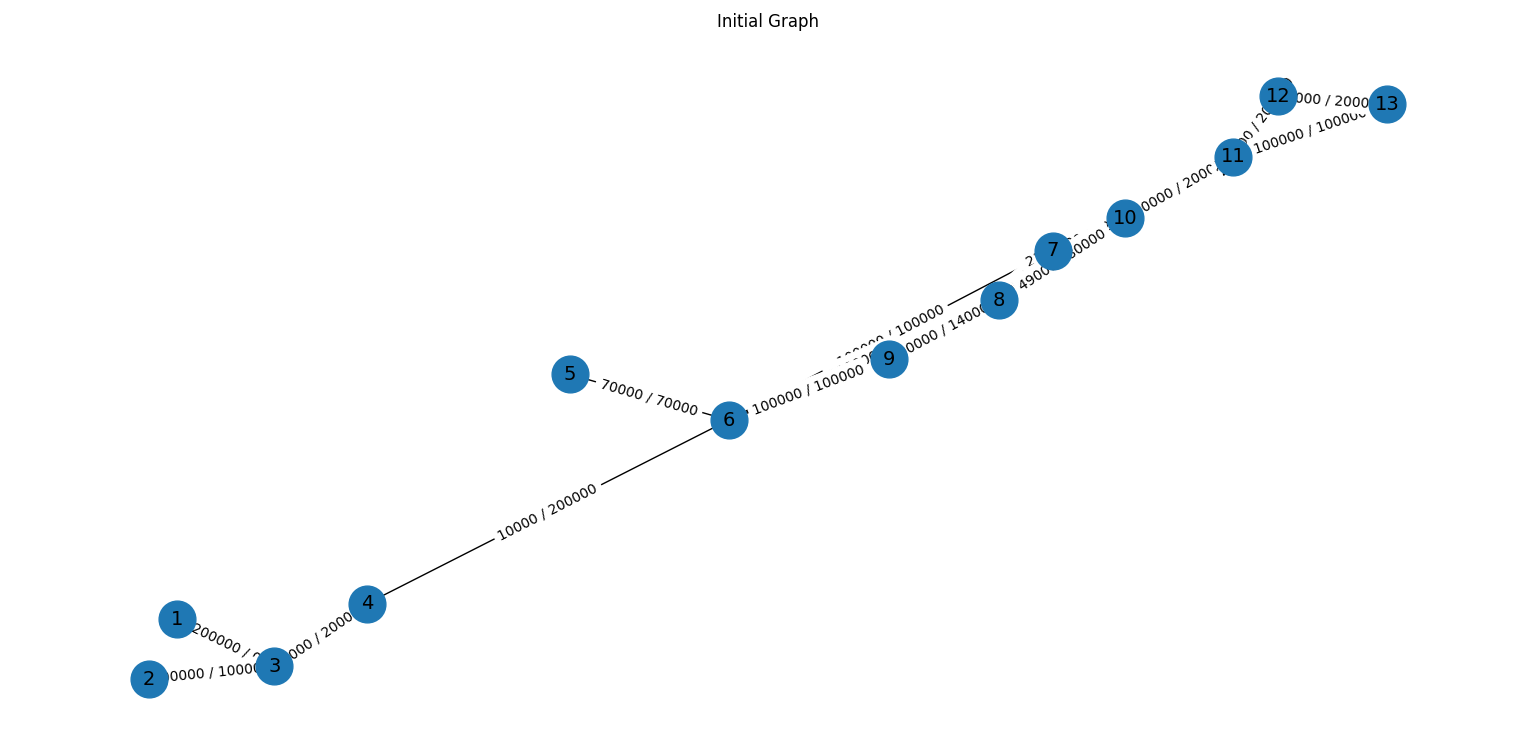
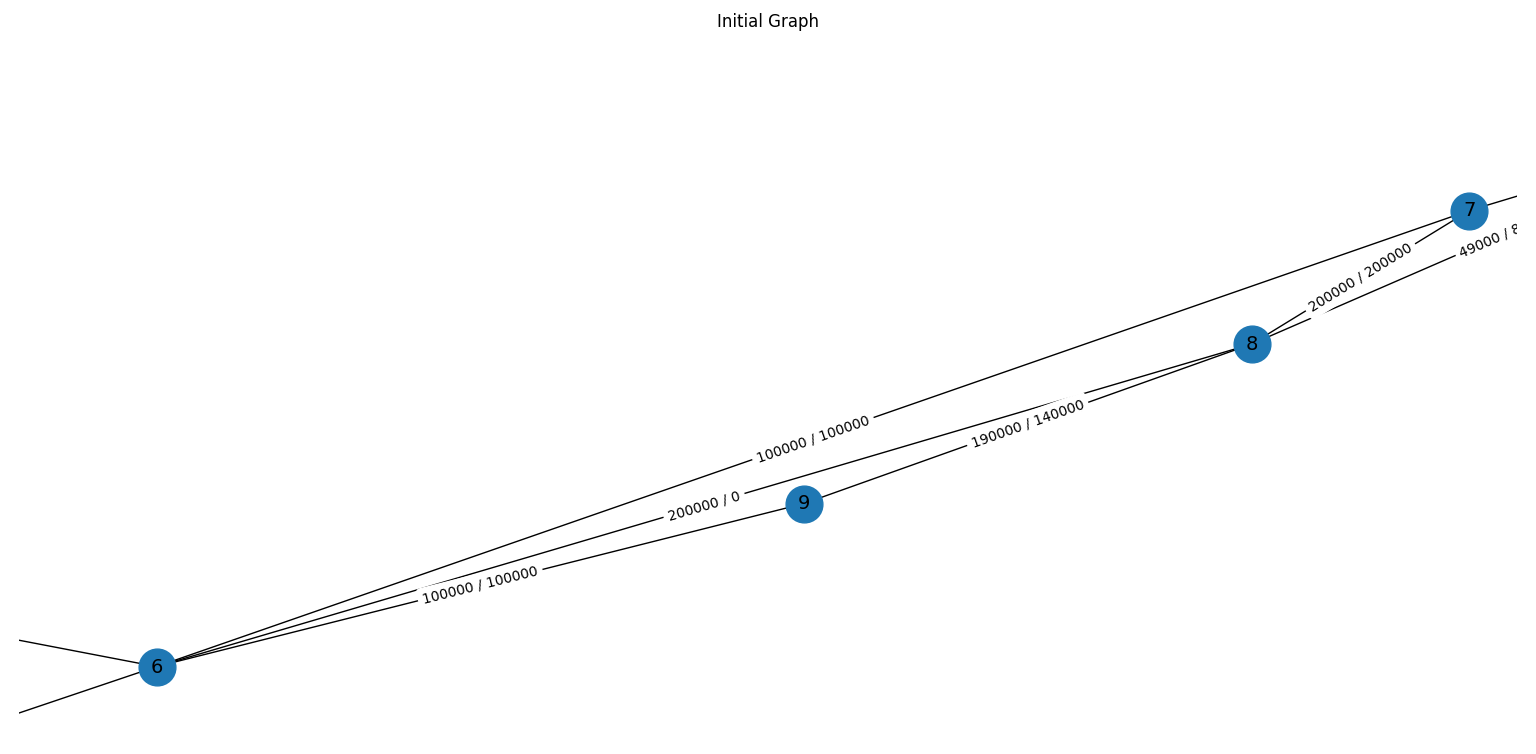
some changes

diff --git a/repo/rebalancer.py b/repo/rebalancer.py
@@ -1,17 +1,10 @@
 import networkx as nx
+from pulp import LpProblem, LpVariable, LpMaximize, LpStatus
 
 def find_cycles(G):
-    # Assuming G is your directed graph
     cycles = list(nx.simple_cycles(G))
-
-    # Filter cycles with length >= 3 (optional)
     valid_cycles = [cycle for cycle in cycles if len(cycle) >= 3]
-
     return valid_cycles
-# print("Found cycles:")
-# for c in valid_cycles:
-#     print(c)
-
 
 def find_cycles_with_depleted_edge(G):
     all_cycles = list(nx.simple_cycles(G))
@@ -19,67 +12,80 @@ def find_cycles_with_depleted_edge(G):
 
     for cycle in all_cycles:
         if len(cycle) < 3:
-            continue  # skip short cycles
-
-        # Build edge list for this cycle
+            continue
         edges = [(cycle[i], cycle[(i + 1) % len(cycle)]) for i in range(len(cycle))]
-
-        # Check if at least one edge has balance 0
         has_depleted_edge = any(G[u][v]['weight'] == 0 for u, v in edges)
         if has_depleted_edge:
             filtered_cycles.append(cycle)
 
     return filtered_cycles
 
-
-from pulp import LpProblem, LpVariable, LpMaximize, LpStatus, lpSum
-
-def rebalance_cycle(cycle, G):
-    # Build directed edges from cycle
+def reweight_cycle(cycle, G):
     edges = [(cycle[i], cycle[(i + 1) % len(cycle)]) for i in range(len(cycle))]
-
-    # Create LP problem
-    prob = LpProblem("CycleRebalancing", LpMaximize)
-    # prob = LpProblem("MidpointRebalancing", LpMaximize)
-
-    # Single flow variable
+    prob = LpProblem("MidpointRebalancing", LpMaximize)
     x = LpVariable("x", lowBound=0)
+    max_x_possible = []
 
-    # Constraints: For each edge, balance + delta*x in [0, capacity]
     for u, v in edges:
-        # delta = +1 in direction u->v, -1 in direction v->u
-        delta = 1
-        # b = balance[u][v]
-        # c = capacity[u][v]
-        b = G[u][v]['weight']
-        c = G[u][v]['capacity']
+        b_fwd = G[u][v]['weight']
+        c_fwd = G[u][v]['capacity']
+        b_rev = G[v][u]['weight']
+        c_rev = G[v][u]['capacity']
+        midpoint = c_fwd / 2
 
-        prob += b + delta * x <= c
-        prob += b + delta * x >= 0
+        if b_fwd < midpoint:
+            max_push = min(midpoint - b_fwd, b_rev)
+            prob += b_fwd + x <= midpoint
+            prob += b_rev - x >= 0
+            max_x_possible.append(max_push)
 
-    # Objective: maximize x
+        elif b_fwd > midpoint:
+            max_push = min(b_fwd - midpoint, c_rev - b_rev)
+            prob += b_fwd - x >= midpoint
+            prob += b_rev + x <= c_rev
+            max_x_possible.append(max_push)
+
+        else:
+            continue
+
     prob += x
+    if max_x_possible:
+        prob += x <= min(max_x_possible)
 
-    # Solve LP
     status = prob.solve()
     if LpStatus[status] == "Optimal" and x.varValue > 0:
-        # Apply update to balances
         flow = x.varValue
         for u, v in edges:
-            G[u][v]['weight'] += flow
-            G[v][u]['weight'] -= flow  # Subtract from reverse direction
+            b_fwd = G[u][v]['weight']
+            c_fwd = G[u][v]['capacity']
+            midpoint = c_fwd / 2
+
+            if b_fwd < midpoint:
+                G[u][v]['weight'] += flow
+                G[v][u]['weight'] -= flow
+            else:
+                G[u][v]['weight'] -= flow
+                G[v][u]['weight'] += flow
         return True, flow
+
     return False, 0
 
 def total_flow(cycles, G):
-    total_flow = 0
+    total = 0
     for cycle in cycles:
-        success, flow = rebalance_cycle(cycle, G)
+        success, flow = reweight_cycle(cycle, G)
         if success:
-            print(f"Rebalanced cycle {cycle} with flow {flow}")
-            total_flow += flow
-    print(f"Total rebalanced flow: {total_flow}")
-    return total_flow
+            aliases = [G.nodes[c].get("alias", c) for c in cycle]
+            print(f"Reweightd cycle {aliases} with flow {flow}")
+            total += flow
+    print(f"Total reweightd flow: {total}")
+    return total
+
+
+
+
+
+
 
 
 
@@ -88,13 +94,131 @@ def total_flow(cycles, G):
 
 
 # import networkx as nx
+
+# def find_cycles(G):
+#     # Assuming G is your directed graph
+#     cycles = list(nx.simple_cycles(G))
+
+#     # Filter cycles with length >= 3 (optional)
+#     valid_cycles = [cycle for cycle in cycles if len(cycle) >= 3]
+
+#     return valid_cycles
+# # print("Found cycles:")
+# # for c in valid_cycles:
+# #     print(c)
+
+
+# def find_cycles_with_depleted_edge(G):
+#     all_cycles = list(nx.simple_cycles(G))
+#     filtered_cycles = []
+
+#     for cycle in all_cycles:
+#         if len(cycle) < 3:
+#             continue  # skip short cycles
+
+#         # Build edge list for this cycle
+#         edges = [(cycle[i], cycle[(i + 1) % len(cycle)]) for i in range(len(cycle))]
+
+#         # Check if at least one edge has weight 0
+#         has_depleted_edge = any(G[u][v]['weight'] == 0 for u, v in edges)
+#         if has_depleted_edge:
+#             filtered_cycles.append(cycle)
+
+#     return filtered_cycles
+
+
+# from pulp import LpProblem, LpVariable, LpMaximize, LpStatus, lpSum
+
+# def reweight_cycle(cycle, G):
+#     # Build directed edges from cycle
+#     edges = [(cycle[i], cycle[(i + 1) % len(cycle)]) for i in range(len(cycle))]
+
+#     # Create LP problem
+#     # prob = LpProblem("CycleRebalancing", LpMaximize)
+#     prob = LpProblem("MidpointRebalancing", LpMaximize)
+
+#     # Single flow variable
+#     x = LpVariable("x", lowBound=0)
+
+#     max_x_possible = []
+
+#     # Constraints: For each edge, weight + delta*x in [0, capacity]
+#     for u, v in edges:
+#         # delta = +1 in direction u->v, -1 in direction v->u
+#         delta = 1
+#         # b = weight[u][v]
+#         # c = capacity[u][v]
+#         b = G[u][v]['weight']
+#         c = G[u][v]['capacity']
+#         midpoint = c / 2
+
+#         if b < midpoint:
+#             # Flow should increase weight
+#             max_push = midpoint - b
+#             prob += b + delta * x <= midpoint
+#             prob += b + delta * x >= 0
+#             max_x_possible.append(max_push)
+#         elif b > midpoint:
+#             # Flow should decrease weight
+#             max_push = b - midpoint
+#             prob += b - delta * x >= midpoint
+#             prob += b - delta * x <= c
+#             max_x_possible.append(max_push)
+#         else:
+#             continue
+
+#     # Objective: maximize x
+#     prob += x
+
+#     # Upper bound for x is minimum across all edges (to avoid overshooting midpoint)
+#     if max_x_possible:
+#         prob += x <= min(max_x_possible)
+
+
+#     # Solve LP
+#     status = prob.solve()
+#     if LpStatus[status] == "Optimal" and x.varValue > 0:
+#         flow = x.varValue
+#         for u, v in edges:
+#             b = G[u][v]['weight']
+#             c = G[u][v]['capacity']
+#             midpoint = int(c / 2)
+
+#             if b < midpoint:
+#                 G[u][v]['weight'] += flow
+#                 G[v][u]['weight'] -= flow
+#             else:
+#                 G[u][v]['weight'] -= flow
+#                 G[v][u]['weight'] += flow
+#         return True, flow
+#     return False, 0
+
+# def total_flow(cycles, G):
+#     total_flow = 0
+#     for cycle in cycles:
+#         success, flow = reweight_cycle(cycle, G)
+#         if success:
+#             a = []
+#             for c in cycle:
+#                 # print(c)
+#                 # print(G.nodes[c].get("alias", c))
+#                 a.append(G.nodes[c].get("alias", c))
+#             print(f"Reweightd cycle {a} with flow {flow}")
+#             total_flow += flow
+#     print(f"Total reweightd flow: {total_flow}")
+#     return total_flow
+
+
+
+
+# import networkx as nx
 # from scipy.optimize import linprog
 
-# class Rebalancer:
+# class Reweightr:
 #     def __init__(self, G):
 #         self.G = G  # G is a NetworkX DiGraph with capacity attributes
 
-#     def cyclic_rebalance(self):
+#     def cyclic_reweight(self):
 #         depleted_edges = [(u, v) for u, v, d in self.G.edges(data=True) if d.get('capacity', 1) == 0]
 #         all_cycles = self.find_all_cycles(limit=6)  # small cycles only for tractability
 
@@ -169,7 +293,7 @@ def total_flow(cycles, G):
 
 # # def optimize_flow_in_cycle(G, cycle):
 # #     """
-# #     Given a directed cycle, this sets up and solves an LP to rebalance the cycle.
+# #     Given a directed cycle, this sets up and solves an LP to reweight the cycle.
 # #     """
 # #     edges = [(cycle[i], cycle[(i + 1) % len(cycle)]) for i in range(len(cycle))]
 
@@ -205,7 +329,7 @@ def total_flow(cycles, G):
 # #         print(f"LP failed on cycle {cycle}: {res.message}")
 
 
-# # def rebalance_with_lp(G):
+# # def reweight_with_lp(G):
 # #     """
 # #     Finds simple cycles and applies LP-based rebalancing.
 # #     """

diff --git a/repo/main.py b/repo/main.py
@@ -14,13 +14,14 @@ graph_display.draw_graph(G, pos, "Initial Graph")
 # cycles = rebalancer.find_cycles(G)
 # print(cycles)
 
-cycles2 = rebalancer.find_cycles_with_depleted_edge(G)
+cycles2 = rebalancer.reweight_cycle(G)
 print(cycles2)
 
 rebalance = rebalancer.total_flow(cycles2,G)
 print(rebalance)
 
-graph_display.draw_graph(G, pos, "Initial Graph")
+
+graph_display.draw_graph(G, pos, "Rebalanced Graph")
 
 # LP-based rebalancing
 # rb = rebalancer.Rebalancer(G)
